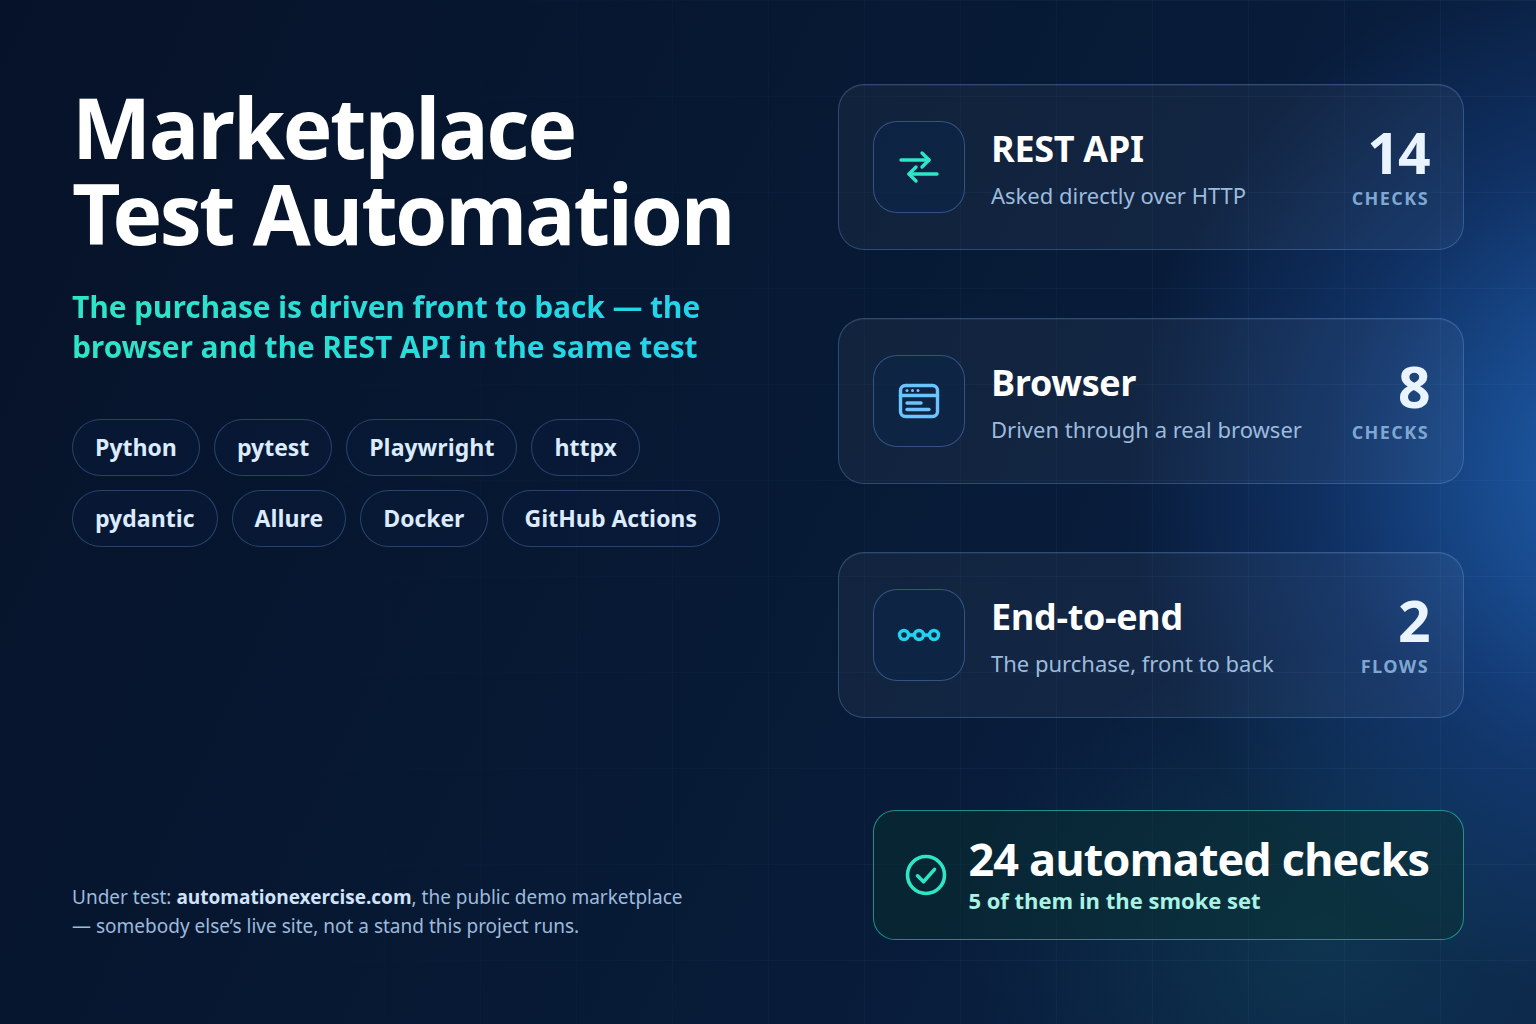
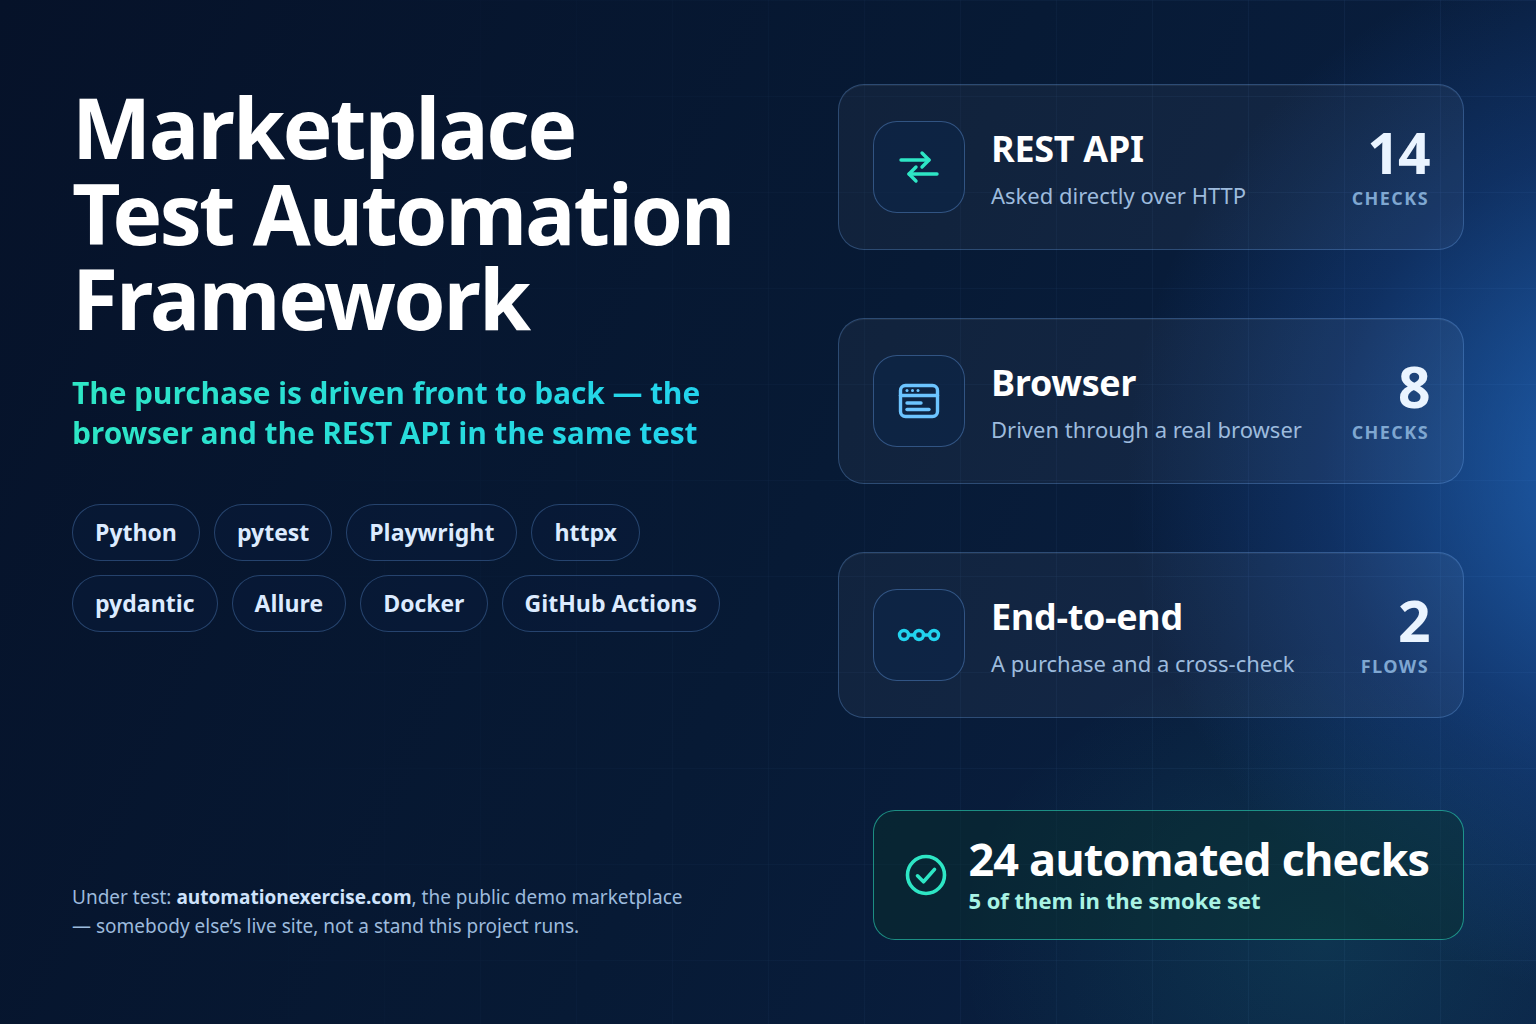
Retake the hero screenshot from the report that is actually published
The image beside the README's opening was a local full-suite run: 101 test
cases, 79 of them `tests.unit`, TREND saying "There is nothing to show",
EXECUTORS empty and an Environment with no `api.`/`ui.` prefixes. Nine lines
below it a coverage table says 24, and the paragraph after that explains that
the framework's own checks are deliberately left out of the arithmetic. A
reader who looked at the picture and then at the table had been told two
different things about the same suite in the space of half a screen.

It is now photographed from `origin/gh-pages` — the report GitHub Pages
serves, checked out into a scratch worktree, because the site itself answers
404 while Pages is misconfigured on the owner's side. It shows 24 test cases,
100%, split 14 / 8 / 2 across tests.api, tests.ui and tests.e2e, which is the
coverage table exactly, and a trend that is green across every publication
before it.

Two of its panels are empty there too, so the caption says so rather than
promising otherwise: Categories holds nothing because publication waits for
all three test jobs and a passing run has no failures to group, and Executors
is empty because the pipeline writes no executor file.

The cover was exported in the same pass, since `scripts/make-assets.py` does
both: it now carries the settled project name on three lines and the
end-to-end card's corrected caption.

Changed region(s): [[0.0312, 0.25, 0.4688, 0.625], [0.625, 0.625, 0.8438, 0.6562], [0.1562, 0.5625, 0.2188, 0.625]]

diff --git a/README.md b/README.md
@@ -5,7 +5,9 @@
 
 Start with the evidence: **[the live Allure report](https://wolfgung.github.io/Marketplace-Test-Automation-Framework/report/)** holds every case, its steps and the trend across runs, and **[the project page](https://wolfgung.github.io/Marketplace-Test-Automation-Framework/)** — generated from the run that produced the numbers on it — carries a recording of the purchase running front to back and **[the Playwright trace of that same purchase](https://trace.playwright.dev/?trace=https://wolfgung.github.io/Marketplace-Test-Automation-Framework/media/checkout-trace.zip)**, which can be stepped through action by action with the page's DOM at each step.
 
-[![The published Allure report: the suite's results with their steps, durations and the trend across runs.](allure-report-screenshot.png)](https://wolfgung.github.io/Marketplace-Test-Automation-Framework/report/)
+[![The overview of the published Allure report: 24 test cases, 100% passing, split by suite into 14 in tests.api, 8 in tests.ui and 2 in tests.e2e, beside a trend that is green across every publication before it. Categories reads "0 items total" and Executors says there is no information about test executors.](allure-report-screenshot.png)](https://wolfgung.github.io/Marketplace-Test-Automation-Framework/report/)
+
+That is the published report, photographed from what is actually on `gh-pages`, and the two empty panels are part of what it says. Categories holds nothing because publication waits for all three test jobs, so the run that publishes is a passing one and has no failures to group; Executors is empty because the pipeline writes no executor file. The trend beside them is real: it carries over from the previous publication on every run.
 
 A production-style test automation framework for an e-commerce / marketplace application, built with **Python, Pytest and Playwright**.
 
